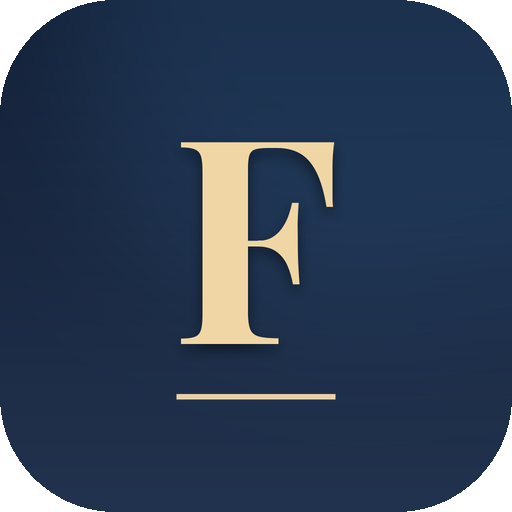
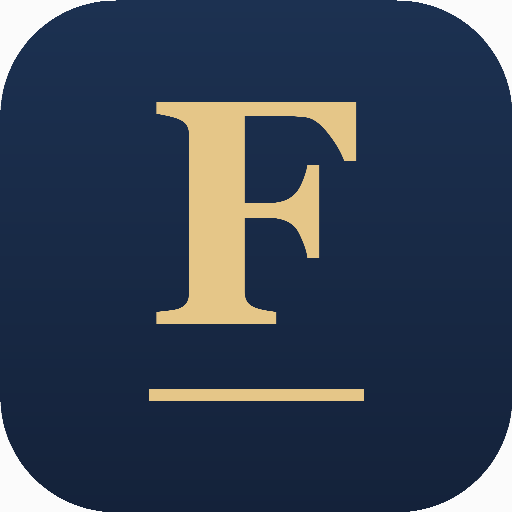
بريف ٣٤ — أيقونة F بخط إشراقة + لوجو شريط الإشعارات
أيقونة الفجالة كانت حرف رفيع وشرطة بالعافية باينة، وإشراقة حرف عريض
وشرطة واضحة — فماكانوش شبه بعض. الفجالة اتولّدت تاني بنفس السكربت
(local/make_icon.php) بحرف F وألوانها الكحلي.

لوجو شريط الحالة فوق كان مربع أبيض: أندرويد بيرسم الـbadge من الشفافية
بس، والـbadge كان الفافيكون — مربع كحلي مصمت. badge-96.png جديدة للموقعين:
الحرف والشرطة بالأبيض على خلفية شفافة.

- sw.js للموقعين v32 و?v=32 في الأربع أماكن
- ?v=4 لأيقونات الفجالة والـmanifest (إشراقة صورها ماتغيّرتش)
- make_icon.php: أرجيومنت للحرف ووضع badge — والأوامر القديمة بتطلع
  نفس البايتات بالظبط (اتقارن بالنسخة القديمة)

Changed region(s): [[0.2812, 0.1875, 0.7188, 0.6875], [0.2812, 0.75, 0.7188, 0.7812]]

diff --git a/ashraqa/sw.js b/ashraqa/sw.js
@@ -27,7 +27,7 @@
 //       على كل جهاز أول ما يفتح النظام. مفيش تنضيف يدوي.
 // =====================================================================
 
-const VERSION = 'v31'; // v31: شكل إشراقة نبيتي بالكامل + عزل الأرقام ونقل تعديلات الفجالة | v30: منع أخطاء السكانر وزرار القايمة الجانبية | v29: فاصلة الآلاف + شكل إشراقة المميز | v28: إصلاح دعم الوضع الليلي في acctree.js | v27: فلتر التاريخ شجرة سنة/شهر/يوم | v26: منع قفل لوحة فلتر xtable على الموبايل عند الفوكس والـ resize | v25: app.js فيه formSubmit والمتصفحات كانت ماسكة القديم | v24: fagala.css اتحدّث والمتصفحات كانت لسه ماسكة القديم | v23: الأصل اللي مش في الكاش بيروح للشبكة صح | v22: الوضع الليلي | v21: الضغط على الإشعار بيعلّمه مقروء | v20: بترد على GET_VERSION
+const VERSION = 'v32'; // v32: لوجو شريط الإشعارات شفاف | v31: شكل إشراقة نبيتي بالكامل + عزل الأرقام ونقل تعديلات الفجالة | v30: منع أخطاء السكانر وزرار القايمة الجانبية | v29: فاصلة الآلاف + شكل إشراقة المميز | v28: إصلاح دعم الوضع الليلي في acctree.js | v27: فلتر التاريخ شجرة سنة/شهر/يوم | v26: منع قفل لوحة فلتر xtable على الموبايل عند الفوكس والـ resize | v25: app.js فيه formSubmit والمتصفحات كانت ماسكة القديم | v24: fagala.css اتحدّث والمتصفحات كانت لسه ماسكة القديم | v23: الأصل اللي مش في الكاش بيروح للشبكة صح | v22: الوضع الليلي | v21: الضغط على الإشعار بيعلّمه مقروء | v20: بترد على GET_VERSION
 const CACHE = 'ashraqa-' + VERSION;
 
 const ASSETS = [
@@ -37,6 +37,7 @@ const ASSETS = [
   './icon-maskable.png',
   './apple-touch-icon.png',
   './favicon-32.png',
+  './badge-96.png',
   './assets/app.js',
   './assets/xtable.js',
   './assets/acctree.js',
@@ -156,7 +157,7 @@ self.addEventListener('push', (e) => {
   const options = {
     body: (data && data.body) ? data.body : '',
     icon: './icon-192.png',
-    badge: './favicon-32.png',
+    badge: './badge-96.png',
     data: {
       link: (data && data.link) ? data.link : './'
     }

diff --git a/site/sw.js b/site/sw.js
@@ -27,7 +27,7 @@
 //       على كل جهاز أول ما يفتح النظام. مفيش تنضيف يدوي.
 // =====================================================================
 
-const VERSION = 'v31'; // v31: منع أخطاء السكانر وزرار القايمة الجانبية | v30: منع انقلاب إشارة الأرقام السالبة | v29: فاصلة الآلاف في خانات فلوس الخزينة | v28: إصلاح دعم الوضع الليلي في acctree.js | v27: فلتر التاريخ شجرة سنة/شهر/يوم | v26: منع قفل لوحة فلتر xtable على الموبايل عند الفوكس والـ resize | v25: app.js فيه formSubmit والمتصفحات كانت ماسكة القديم | v24: fagala.css اتحدّث والمتصفحات كانت لسه ماسكة القديم | v23: الأصل اللي مش في الكاش بيروح للشبكة صح | v22: الوضع الليلي | v21: الضغط على الإشعار بيعلّمه مقروء | v20: بترد على GET_VERSION
+const VERSION = 'v32'; // v32: أيقونة F بخط إشراقة + لوجو شريط الإشعارات شفاف | v31: منع أخطاء السكانر وزرار القايمة الجانبية | v30: منع انقلاب إشارة الأرقام السالبة | v29: فاصلة الآلاف في خانات فلوس الخزينة | v28: إصلاح دعم الوضع الليلي في acctree.js | v27: فلتر التاريخ شجرة سنة/شهر/يوم | v26: منع قفل لوحة فلتر xtable على الموبايل عند الفوكس والـ resize | v25: app.js فيه formSubmit والمتصفحات كانت ماسكة القديم | v24: fagala.css اتحدّث والمتصفحات كانت لسه ماسكة القديم | v23: الأصل اللي مش في الكاش بيروح للشبكة صح | v22: الوضع الليلي | v21: الضغط على الإشعار بيعلّمه مقروء | v20: بترد على GET_VERSION
 const CACHE = 'fagala-' + VERSION;
 
 const ASSETS = [
@@ -37,6 +37,7 @@ const ASSETS = [
   './icon-maskable.png',
   './apple-touch-icon.png',
   './favicon-32.png',
+  './badge-96.png',
   './assets/app.js',
   './assets/xtable.js',
   './assets/acctree.js',
@@ -156,7 +157,7 @@ self.addEventListener('push', (e) => {
   const options = {
     body: (data && data.body) ? data.body : '',
     icon: './icon-192.png',
-    badge: './favicon-32.png',
+    badge: './badge-96.png',
     data: {
       link: (data && data.link) ? data.link : './'
     }

diff --git a/local/make_icon.php b/local/make_icon.php
@@ -1,6 +1,6 @@
 <?php
 /**
- * make_icon.php — توليد أيقونات موقع إشراقة (حرف A) بنفس تصميم أيقونة الفجالة
+ * make_icon.php — توليد أيقونات موقعي الفجالة وإشراقة بنفس التصميم (حرف وشرطة تحته)
  *
  * 🔴 مكانه `local/` عن قصد — **مايترفعش على السيرفر**. ده أداة توليد بس،
  *    اللي بيترفع هو ملفات الـPNG اللي بتطلع منه.
@@ -12,9 +12,10 @@
  * ناعمة، لأن GD مابيعملش anti-aliasing للأشكال المصمتة.
  *
  * الاستعمال:
- *   php local/make_icon.php <المقاس> <ملف الخرج> <لون فوق> <لون تحت> <لون الحرف> [padding]
- *   مثال: php local/make_icon.php 192 out.png 0f3b34 072722 e8c88a
- *   الـpadding (نسبة من صفر لواحد) للأيقونة الـmaskable اللي محتاجة هامش أمان.
+ *   php local/make_icon.php <المقاس> <ملف الخرج> <لون فوق> <لون تحت> <لون الحرف> [الوضع: normal|maskable|badge] [الحرف: A|F|...]
+ *   مثال: php local/make_icon.php 192 out.png 0f3b34 072722 e8c88a normal A
+ *   الـmaskable من غير حواف مدوّرة وبحرف أصغر جوه منطقة الأمان.
+ *   الـbadge بخلفية شفافة تماماً وبحرف وشرطة أكبر لشريط إشعارات أندرويد.
  */
 declare(strict_types=1);
 
@@ -26,15 +27,18 @@ $out  = (string) ($out ?: 'icon.png');
 $top  = (string) ($top ?: '0f3b34');
 $bottom = (string) ($bottom ?: '072722');
 $fg   = (string) ($fg ?: 'e8c88a');
-/* الوضع: عادي (مربع بحواف مدوّرة) أو maskable.
+/* الوضع: عادي (مربع بحواف مدوّرة) أو maskable أو badge.
    الـmaskable بتتقص بماسك بيحدده نظام الموبايل، فلازم الخلفية تملا
    الكادر كله من غير حواف مدوّرة، والحرف يفضل في **منطقة الأمان** جوه
-   دايرة ٨٠٪ من العرض — عشان مايتقصّش. عشان كده الحرف بيصغّر مش الخلفية. */
-$maskable = (($argv[6] ?? '') === 'maskable');
-$cs   = $maskable ? 0.68 : 1.0;             // نسبة تصغير المحتوى
-$pad  = 0.0;
-$letter = 'A';
-$font   = 'C:/Windows/Fonts/georgiab.ttf';  // سيرافي عريض — أقرب حاجة للأصل
+   دايرة ٨٠٪ من العرض — عشان مايتقصّش. عشان كده الحرف بيصغّر مش الخلفية.
+   الـbadge لشريط إشعارات أندرويد: خلفية شفافة والحرف والشرطة بس بلون مصمت. */
+$mode     = (string) ($argv[6] ?? 'normal');
+$maskable = ($mode === 'maskable');
+$badge    = ($mode === 'badge');
+$cs       = $maskable ? 0.68 : ($badge ? 1.25 : 1.0);  // نسبة تصغير/تكبير المحتوى
+$pad      = 0.0;
+$letter   = (string) ($argv[7] ?? 'A');
+$font     = 'C:/Windows/Fonts/georgiab.ttf';  // سيرافي عريض — أقرب حاجة للأصل
 
 if (!is_file($font)) { fwrite(STDERR, "مفيش الخط: $font\n"); exit(2); }
 
@@ -59,22 +63,24 @@ $rad = $maskable ? 0 : (int) round($w * 0.225);
 [$tr,$tg,$tb] = hex2rgb($top);
 [$br,$bg2,$bb] = hex2rgb($bottom);
 
-/* الشكل: بنبني ماسك بالحواف المدوّرة وبنملاه بالتدرّج سطر بسطر */
-for ($y = $y0; $y <= $y1; $y++) {
-    $t = ($y - $y0) / max(1, $w - 1);
-    $r = (int) round($tr + ($br  - $tr)  * $t);
-    $g = (int) round($tg + ($bg2 - $tg)  * $t);
-    $b = (int) round($tb + ($bb  - $tb)  * $t);
-    $col = imagecolorallocate($im, $r, $g, $b);
+/* الشكل: بنبني ماسك بالحواف المدوّرة وبنملاه بالتدرّج سطر بسطر (في غير وضع badge) */
+if (!$badge) {
+    for ($y = $y0; $y <= $y1; $y++) {
+        $t = ($y - $y0) / max(1, $w - 1);
+        $r = (int) round($tr + ($br  - $tr)  * $t);
+        $g = (int) round($tg + ($bg2 - $tg)  * $t);
+        $b = (int) round($tb + ($bb  - $tb)  * $t);
+        $col = imagecolorallocate($im, $r, $g, $b);
 
-    // عرض السطر حسب الاستدارة
-    $dy = 0;
-    if ($y < $y0 + $rad)      $dy = $y0 + $rad - $y;
-    elseif ($y > $y1 - $rad)  $dy = $y - ($y1 - $rad);
-    $inset = 0;
-    if ($dy > 0) $inset = (int) round($rad - sqrt(max(0, $rad*$rad - $dy*$dy)));
+        // عرض السطر حسب الاستدارة
+        $dy = 0;
+        if ($y < $y0 + $rad)      $dy = $y0 + $rad - $y;
+        elseif ($y > $y1 - $rad)  $dy = $y - ($y1 - $rad);
+        $inset = 0;
+        if ($dy > 0) $inset = (int) round($rad - sqrt(max(0, $rad*$rad - $dy*$dy)));
 
-    imageline($im, $x0 + $inset, $y, $x1 - $inset, $y, $col);
+        imageline($im, $x0 + $inset, $y, $x1 - $inset, $y, $col);
+    }
 }
 
 // الحرف — متوسّط أفقياً، ومرفوع شوية عشان الخط اللي تحته
@@ -90,13 +96,13 @@ imagettftext($im, $fs, 0, $tx, $ty, $fcol, $font, $letter);
 
 // الخط اللي تحت الحرف — نفس فكرة أيقونة الفجالة
 $lw  = (int) round($w * 0.42 * $cs);
-$lh  = max(1, (int) round($w * 0.022 * $cs));
+$lh  = $badge ? (int) round($w * 0.045) : max(1, (int) round($w * 0.022 * $cs));
 $lx  = $x0 + (int) round(($w - $lw) / 2);
 $ly  = $y0 + (int) round($w * (0.5 + (0.760 - 0.5) * $cs));
 imagefilledrectangle($im, $lx, $ly, $lx + $lw, $ly + $lh, $fcol);
 
 // تصغير للمقاس المطلوب — ده اللي بيدّي الحواف الناعمة
-$fin = imagescale($im, $size, $size, IMG_BICUBIC);
+$fin = imagescale($im, $size, $size, $badge ? IMG_BILINEAR_FIXED : IMG_BICUBIC);
 imagesavealpha($fin, true);
 imagepng($fin, $out, 9);
 echo "✅ $out ({$size}x{$size})\n";

diff --git a/site/includes/header.php b/site/includes/header.php
@@ -71,7 +71,7 @@ $vapidPublicKey = (string) setting('vapid_public_key', '');
     <meta name="viewport" content="width=device-width, initial-scale=1.0">
     <title><?= e($pageTitle) ?> — <?= e($storeName) ?></title>
     <!-- PWA -->
-    <link rel="manifest" href="manifest.json?v=3">
+    <link rel="manifest" href="manifest.json?v=4">
     <meta name="theme-color" content="#16233d">
     <script>
         // 🔴 لازم يفضل هنا — فوق كل الاستايلات وتحت ميتا theme-color.
@@ -105,9 +105,9 @@ $vapidPublicKey = (string) setting('vapid_public_key', '');
     <meta name="mobile-web-app-capable" content="yes">
     <meta name="apple-mobile-web-app-capable" content="yes">
     <meta name="apple-mobile-web-app-title" content="الفجالة">
-    <link rel="apple-touch-icon" href="apple-touch-icon.png?v=3">
-    <link rel="icon" type="image/png" sizes="32x32" href="favicon-32.png?v=3">
-    <link rel="icon" href="favicon.ico?v=3" sizes="any">
+    <link rel="apple-touch-icon" href="apple-touch-icon.png?v=4">
+    <link rel="icon" type="image/png" sizes="32x32" href="favicon-32.png?v=4">
+    <link rel="icon" href="favicon.ico?v=4" sizes="any">
     <script>
         // 🔴 الـ?v= مش زيادة — كاش الاستضافة (LiteSpeed) كان بيمسك `sw.js`
         // من غير كويري ويرجّع نسخة قديمة، فالمتصفح يفضل يسجّل service worker
@@ -115,7 +115,7 @@ $vapidPublicKey = (string) setting('vapid_public_key', '');
         // FCM تقبلها وترد ٢٠١، ومحدش يعرضها — من غير أي خطأ في أي مكان.
         // 🔴 لما تزوّد VERSION في sw.js، زوّد الرقم ده معاه هنا وفي login.php.
         if ('serviceWorker' in navigator) {
-            window.addEventListener('load', () => navigator.serviceWorker.register('sw.js?v=28').catch(() => {}));
+            window.addEventListener('load', () => navigator.serviceWorker.register('sw.js?v=32').catch(() => {}));
         }
     </script>
     <!-- الأيقونات: subset محلي (77 أيقونة / 15KB) بدل خط Tabler الكامل
@@ -166,7 +166,7 @@ $vapidPublicKey = (string) setting('vapid_public_key', '');
     <!-- ===== Sidebar ===== -->
     <aside class="sidebar" id="sidebar">
         <div class="sidebar-brand">
-            <span class="dot"><img src="icon-192.png?v=3" alt=""></span>
+            <span class="dot"><img src="icon-192.png?v=4" alt=""></span>
             <span><?= e($storeName) ?></span>
         </div>
         <nav class="sidebar-nav">

diff --git a/site/login.php b/site/login.php
@@ -43,7 +43,7 @@ $storeName = setting('store_name', 'مكتبات الفجالة ستور');
     <meta name="viewport" content="width=device-width, initial-scale=1.0">
     <title>تسجيل الدخول — <?= e($storeName) ?></title>
     <!-- PWA -->
-    <link rel="manifest" href="manifest.json?v=3">
+    <link rel="manifest" href="manifest.json?v=4">
     <meta name="theme-color" content="#16233d">
     <script>
         // 🔴 لازم يفضل هنا — فوق كل الاستايلات وتحت ميتا theme-color.
@@ -65,9 +65,9 @@ $storeName = setting('store_name', 'مكتبات الفجالة ستور');
     <meta name="apple-mobile-web-app-capable" content="yes">
     <meta name="apple-mobile-web-app-status-bar-style" content="default">
     <meta name="apple-mobile-web-app-title" content="الفجالة">
-    <link rel="apple-touch-icon" href="apple-touch-icon.png?v=3">
-    <link rel="icon" type="image/png" sizes="32x32" href="favicon-32.png?v=3">
-    <link rel="icon" href="favicon.ico?v=3" sizes="any">
+    <link rel="apple-touch-icon" href="apple-touch-icon.png?v=4">
+    <link rel="icon" type="image/png" sizes="32x32" href="favicon-32.png?v=4">
+    <link rel="icon" href="favicon.ico?v=4" sizes="any">
     <link rel="preconnect" href="https://fonts.googleapis.com">
     <link rel="preconnect" href="https://fonts.gstatic.com" crossorigin>
     <link href="https://fonts.googleapis.com/css2?family=IBM+Plex+Sans+Arabic:wght@400;500;600;700&display=swap" rel="stylesheet">
@@ -277,7 +277,7 @@ $storeName = setting('store_name', 'مكتبات الفجالة ستور');
 <body>
     <div class="login-card">
         <div class="brand">
-            <div class="logo"><img src="icon-192.png?v=3" alt="" width="58" height="58"></div>
+            <div class="logo"><img src="icon-192.png?v=4" alt="" width="58" height="58"></div>
             <h1><?= e($storeName) ?></h1>
             <p>النظام المالي المتكامل</p>
         </div>
@@ -318,7 +318,7 @@ $storeName = setting('store_name', 'مكتبات الفجالة ستور');
             window.addEventListener('load', () => {
                 // الرقم ده لازم يبقى نفس اللي في includes/header.php وفي VERSION
                 // بتاعة sw.js — شوف التعليق هناك، الكاش كان بيرجّع نسخة قديمة.
-                navigator.serviceWorker.register('sw.js?v=28').catch(() => {});
+                navigator.serviceWorker.register('sw.js?v=32').catch(() => {});
             });
         }
 

diff --git a/ashraqa/includes/header.php b/ashraqa/includes/header.php
@@ -115,7 +115,7 @@ $vapidPublicKey = (string) setting('vapid_public_key', '');
         // FCM تقبلها وترد ٢٠١، ومحدش يعرضها — من غير أي خطأ في أي مكان.
         // 🔴 لما تزوّد VERSION في sw.js، زوّد الرقم ده معاه هنا وفي login.php.
         if ('serviceWorker' in navigator) {
-            window.addEventListener('load', () => navigator.serviceWorker.register('sw.js?v=28').catch(() => {}));
+            window.addEventListener('load', () => navigator.serviceWorker.register('sw.js?v=32').catch(() => {}));
         }
     </script>
     <!-- الأيقونات: subset محلي (77 أيقونة / 15KB) بدل خط Tabler الكامل

diff --git a/site/remote_scan.php b/site/remote_scan.php
@@ -82,7 +82,7 @@ if ($_SERVER['REQUEST_METHOD'] === 'POST' && ($_POST['action'] ?? '') === 'push'
 <meta charset="UTF-8">
 <meta name="viewport" content="width=device-width, initial-scale=1.0, maximum-scale=1.0">
 <title>سكانر الكمبيوتر — الفجالة ستور</title>
-<link rel="icon" href="favicon-32.png?v=3">
+<link rel="icon" href="favicon-32.png?v=4">
 <meta name="theme-color" content="#16233d">
 <link href="https://fonts.googleapis.com/css2?family=IBM+Plex+Sans+Arabic:wght@400;500;700&display=swap" rel="stylesheet">
 <link rel="stylesheet" href="assets/fagala.css?v=9">

diff --git a/ashraqa/login.php b/ashraqa/login.php
@@ -318,7 +318,7 @@ $storeName = setting('store_name', 'مكتبات الفجالة ستور');
             window.addEventListener('load', () => {
                 // الرقم ده لازم يبقى نفس اللي في includes/header.php وفي VERSION
                 // بتاعة sw.js — شوف التعليق هناك، الكاش كان بيرجّع نسخة قديمة.
-                navigator.serviceWorker.register('sw.js?v=28').catch(() => {});
+                navigator.serviceWorker.register('sw.js?v=32').catch(() => {});
             });
         }
 
